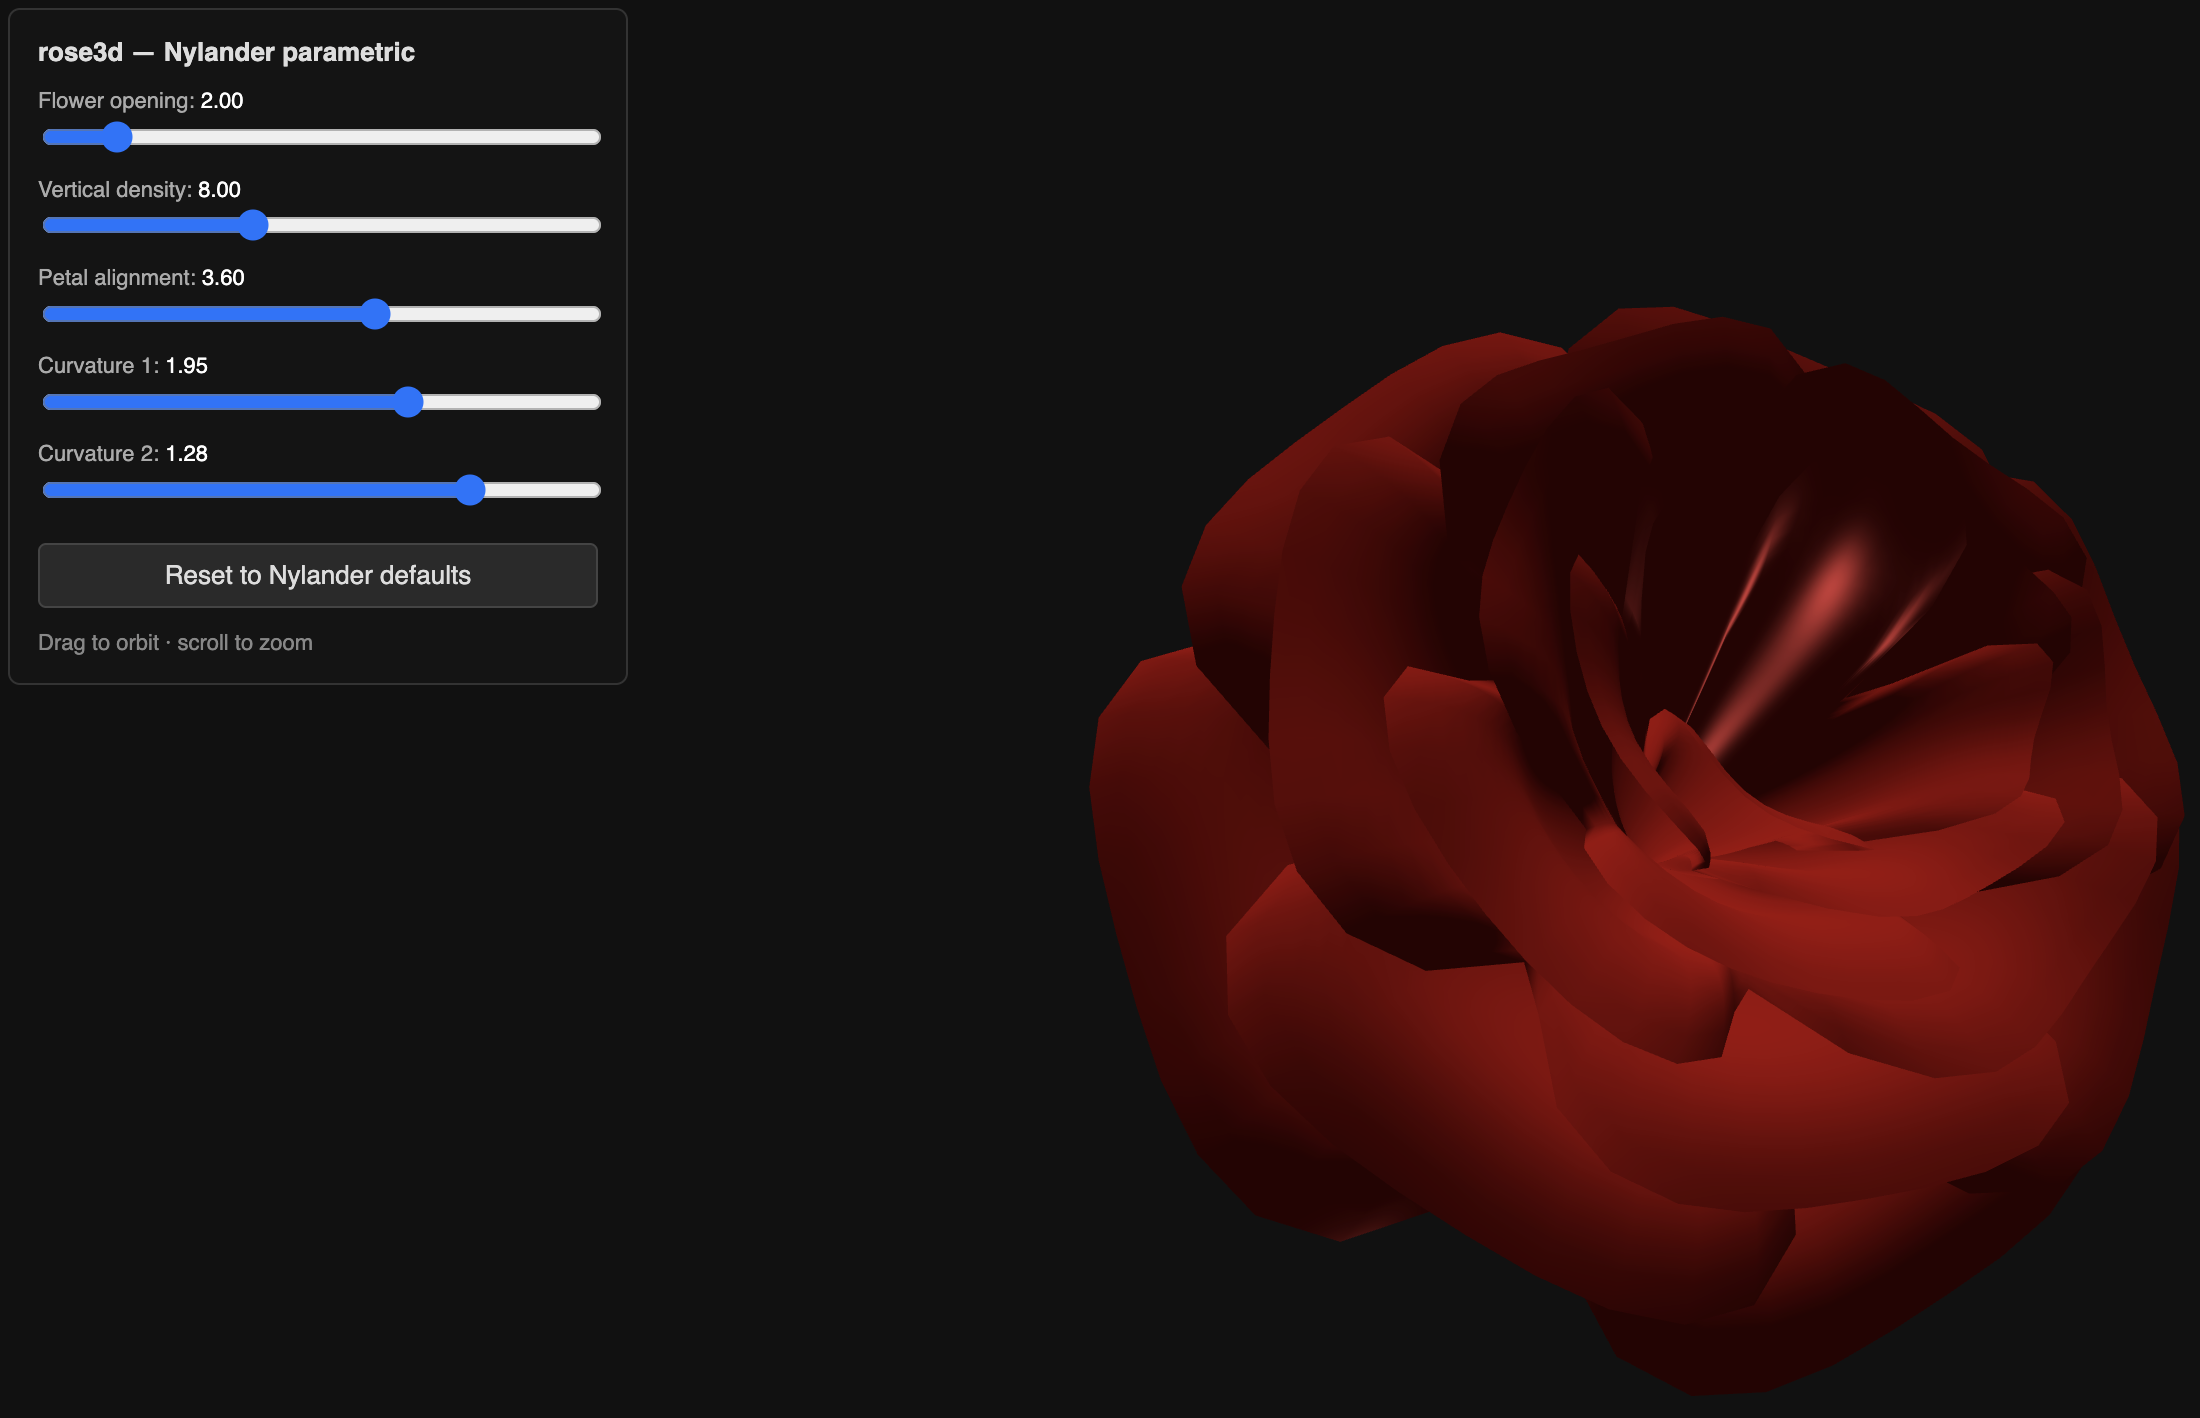
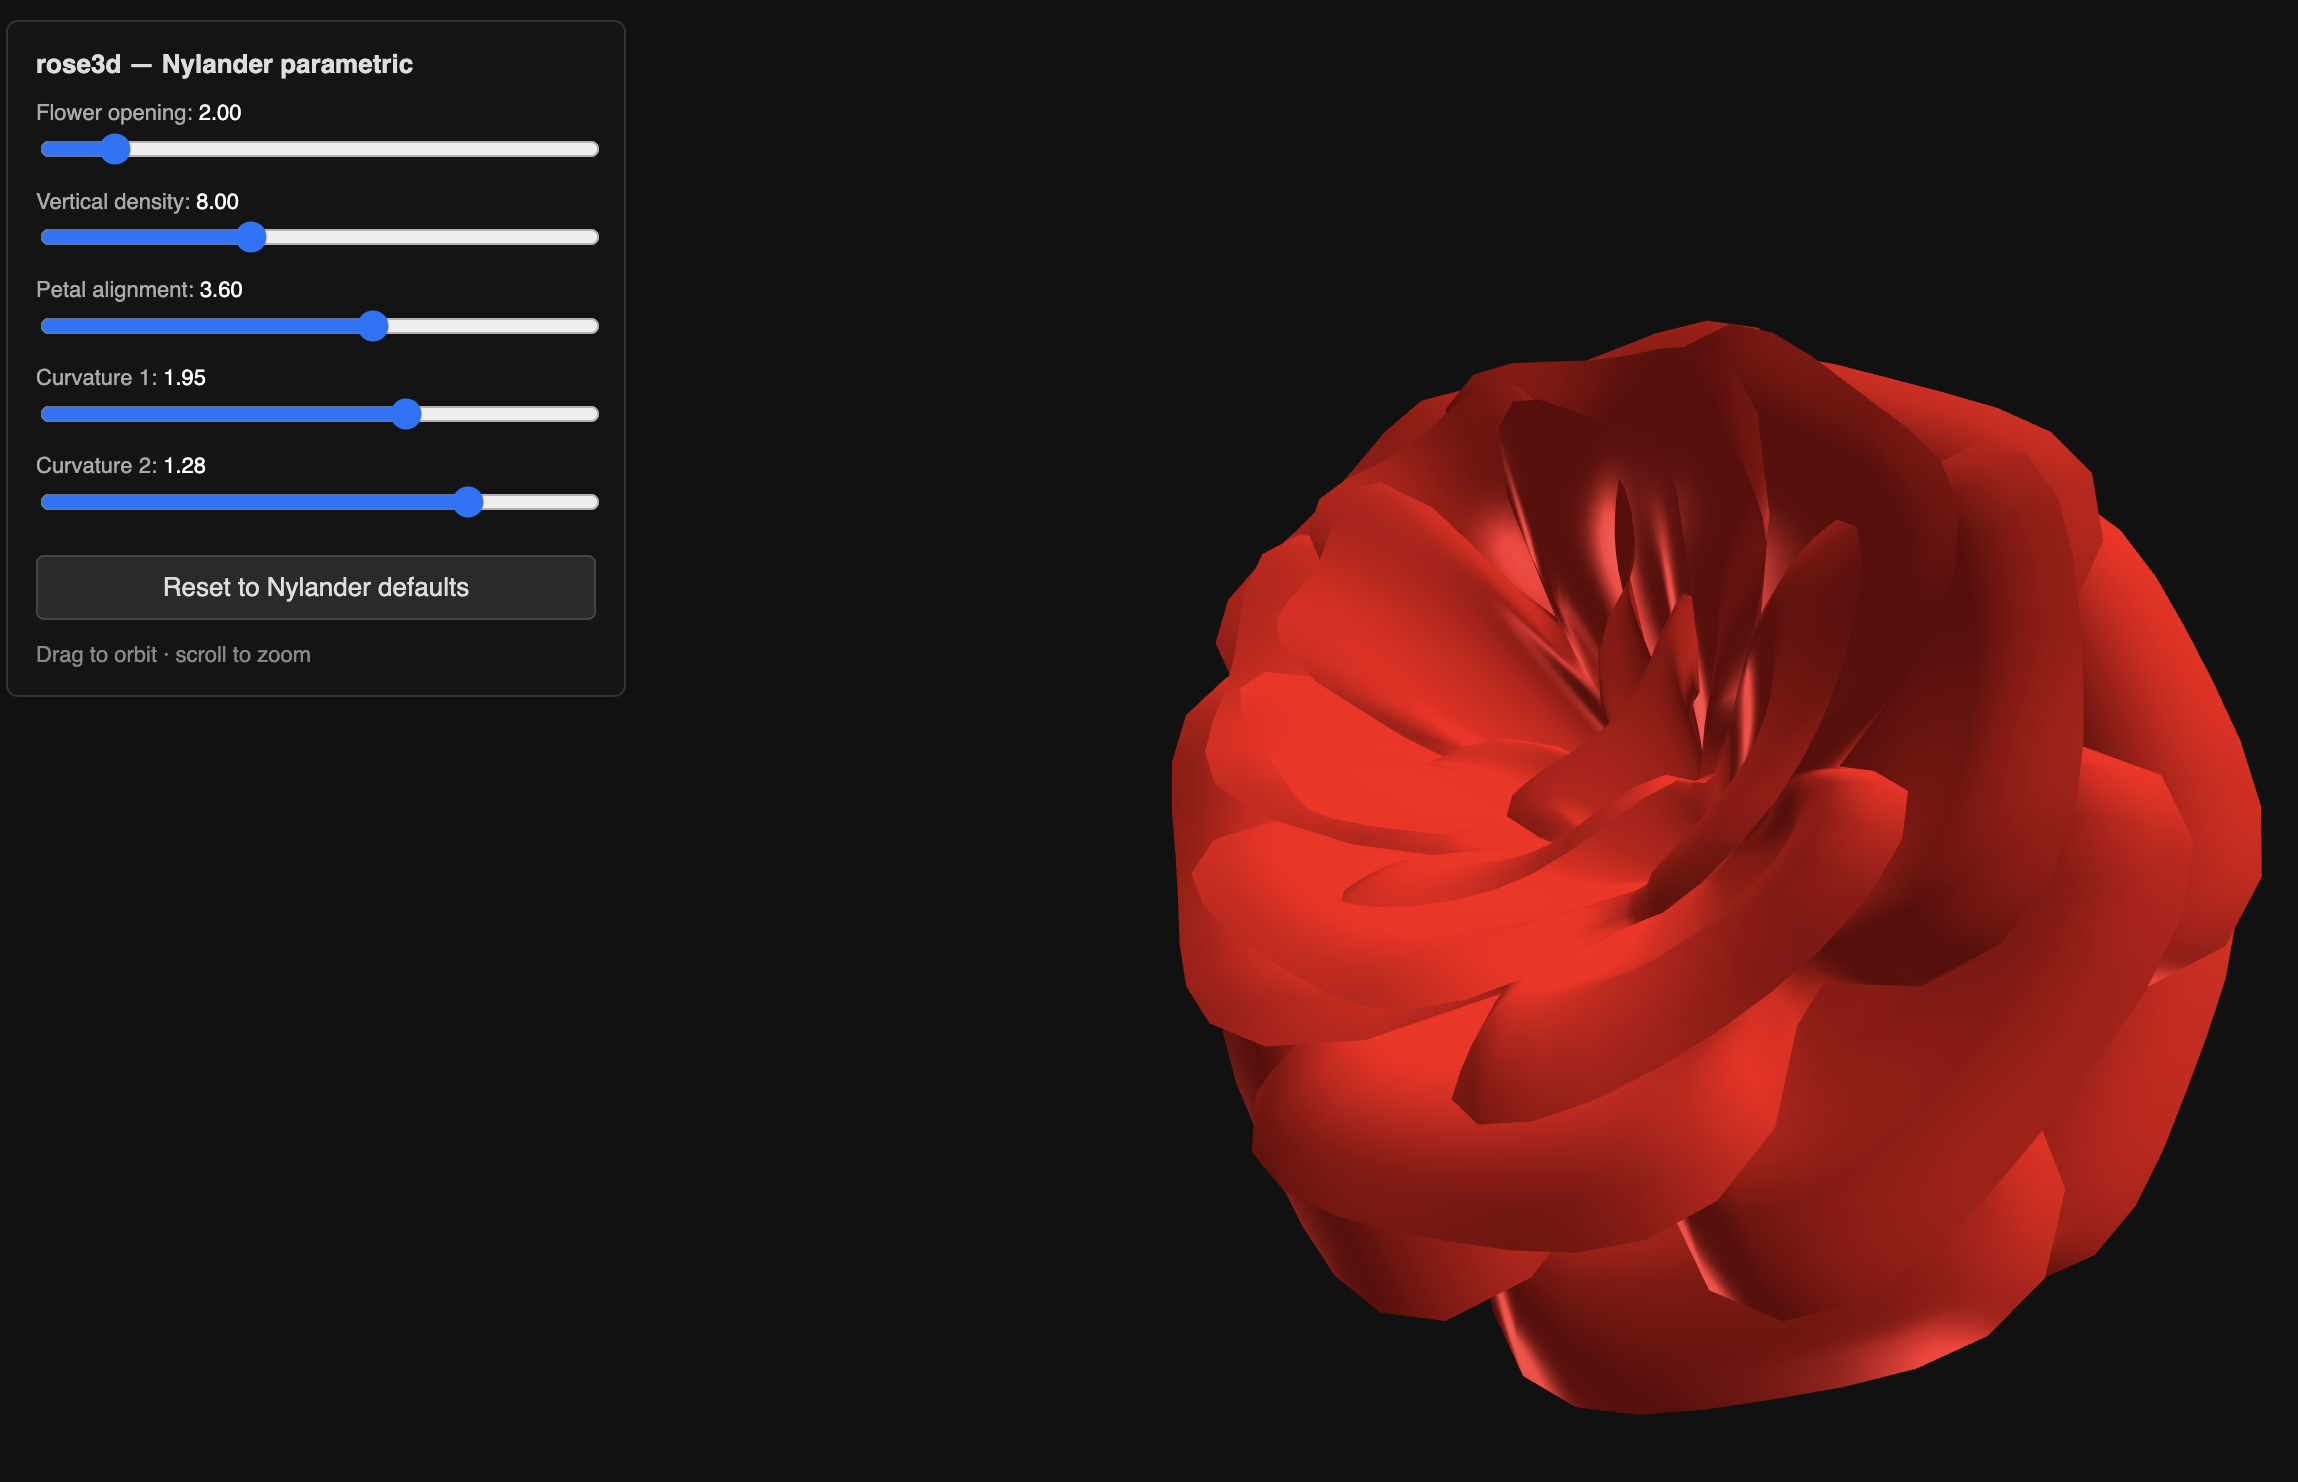
Extend theta range to full Nylander span and embed Lisp source
Cover θ ∈ [−20π/9, 15π] (was [0, 15π]) so the recurved inner-bud
petals from Nylander's original render are present; bump COLS to 420
to keep ~24 samples per π. Embed the verbatim AutoLISP source as a
header comment with link to http://bugman123.com/Math/Rose.lsp so the
reference can't get lost. Brighten lighting (second fill light, warmer
ambient), and stop orbitControl from firing while the user drags
inside the slider panel.

Changed region(s): [[0.4945, 0.2172, 1.0, 0.9619], [0.0, 0.0, 0.2782, 0.4654]]

diff --git a/index.html b/index.html
@@ -53,9 +53,80 @@
 </div>
 
 <script>
-const COLS = 360;
+/*
+ * Port of Paul Nylander's "Rose-Shaped Parametric Surface" (3/11/09).
+ * Source: http://bugman123.com/Math/Rose.lsp
+ *
+ * Original AutoLISP, archived verbatim:
+ *
+ * ;*******************************************************************************************
+ * ;* Rose-Shaped Parametric Surface, by Paul Nylander, bugman123.com, 3/11/09
+ * ;*******************************************************************************************
+ *
+ * ;Basic Functions
+ * (defun mod (a b / c) (setq c (rem a b)) (if (> c 0) c (+ c b))); well-behaved (always return positive)
+ * (defun ² (x) (* x x))
+ *
+ * ;Converts Polygon into AutoCAD's Triangle Elements, only works for convex polygons
+ * ;(TriangulateElem '(1 2 3 4 5 6 7 8 9 10)) -> '((1 2 -3) (-1 3 -4) (-1 4 -5) (-1 5 -6) (-1 6 -7) (-1 7 -8) (-1 8 -9) (-1 9 10))
+ * (defun TriangulateElem (elem / n i i0 i1 i2 elems) (setq n (length elem))
+ *  (if (= n 3) (list elem) (progn
+ *   (setq i0 (car elem) i1 (caddr elem) elems (list (list i0 (cadr elem) (- i1))) i 3)
+ *   (while (< i (1- n)) (setq i2 (nth i elem) elems (append elems (list (list (- i0) i1 (- i2)))) i1 i2 i (1+ i)))
+ *   (append elems (list (list (- i0) i1 (last elem))))
+ *  ));i
+ * );d
+ *
+ * (defun mesh (nodes elems1 / elems2 nnode nelem elem)
+ *  (setq elems2 (apply 'append (mapcar 'TriangulateElem elems1))); introduces AutoCAD's negative index notation
+ *  (setq nnode (length nodes) nelem (length elems2))
+ *  (entmake (list '(0 . "POLYLINE") '(70 . 64) (cons 71 nnode) (cons 72 nelem)))
+ *  (foreach p nodes (entmake (list '(0 . "VERTEX") (cons 10 p) '(70 . 192))))
+ *  (foreach elem elems2 (entmake (list '(0 . "VERTEX") '(10 0.0 0.0 0.0) '(70 . 128)
+ *   (cons 71 (car elem)) (cons 72 (cadr elem)) (cons 73 (caddr elem))
+ *   (cons 74 (- (abs (car elem))))
+ *  )));f
+ *  (entmake '((0 . "SEQEND")))
+ * );d
+ *
+ * (defun ParametricPlot3D (f u1 u2 du v1 v2 dv / u v i j i1 i2 i3 i4 imax jmax nodes elems)
+ *  (setq imax (fix (+ (/ (- u2 u1) du) 0.5)) jmax (fix (+ (/ (- v2 v1) dv) 0.5)))
+ *  (setq j 0); calculate nodes
+ *  (while (<= j jmax) (setq v (+ v1 (* j dv)) i 0)
+ *   (while (<= i imax) (setq u (+ u1 (* i du)) nodes (append nodes (list (f u v))) i (1+ i)))
+ *   (setq j (1+ j))
+ *  );w
+ *  (setq i 1); assemble quad elements
+ *  (while (<= i imax) (setq j 0)
+ *   (while (< j jmax) (setq
+ *    i1 (+ i (* j (1+ imax))) i2 (1+ i1) i3 (+ i1 (1+ imax) 1) i4 (+ i1 (1+ imax))
+ *    elems (append elems (list (list i1 i2 i3 i4)))
+ *    j (1+ j)
+ *   ));w
+ *   (setq i (1+ i))
+ *  );w
+ *  (mesh nodes elems)
+ * );d
+ *
+ * ;Rose-Shaped Parametric Surface
+ * (setq theta1 (/ (* -20 pi) 9) theta2 (* 15 pi) x0 0.7831546645625248)
+ * (defun Rose (x1 theta / Ø y1 x r)
+ *  (setq Ø (* 0.5 pi (exp (- (/ theta 8 pi)))) thetanew theta)
+ *  (setq y1 (* 1.9565284531299512 (² x1) (² (- (* 1.2768869870150188 x1) 1.0)) (sin Ø)))
+ *  (setq x (- 1.0 (* 0.5 (² (- (* 1.25 (² (- 1.0 (/ (mod (* 3.6 theta) (* 2 pi)) pi)))) 0.25)))))
+ *  (setq r (* x (+ (* x1 (sin Ø)) (* y1 (cos Ø)))))
+ *  (list (* r (sin thetanew)) (* r (cos thetanew)) (* x (- (* x1 (cos Ø)) (* y1 (sin Ø)))))
+ * );d
+ * (ParametricPlot3D Rose 1.0e-6 1.0 (/ 1.0 24) theta1 theta2 (/ (- theta2 theta1) 575))
+ *
+ * (command "vpoint" (list -1.0 -1.0 1.0)); (command "zoom" "extents")
+ */
+
+const THETA_MIN = -20 * Math.PI / 9;   // Nylander's θ₁
+const THETA_MAX = 15 * Math.PI;         // Nylander's θ₂
+const COLS = 420;                       // ~24 samples per π over full range
 const ROWS = 28;
-const T_D_RAD = (15 * Math.PI) / COLS;  // theta step in radians (15π total span)
+const T_D_RAD = (THETA_MAX - THETA_MIN) / COLS;
 const R_D = 1 / ROWS;
 
 const ids = ['opening', 'vDensity', 'pAlign', 'curve1', 'curve2'];
@@ -81,6 +152,11 @@ document.getElementById('reset').addEventListener('click', () => {
   });
 });
 
+let uiDrag = false;
+document.getElementById('panel').addEventListener('pointerdown', () => { uiDrag = true; });
+window.addEventListener('pointerup', () => { uiDrag = false; });
+window.addEventListener('pointercancel', () => { uiDrag = false; });
+
 new p5((p) => {
   let geom = null;
 
@@ -93,7 +169,7 @@ new p5((p) => {
       const x1 = r * R_D;
       const x1sq = x1 * x1;
       for (let theta = 0; theta <= COLS; theta++) {
-        const th = theta * T_D_RAD;
+        const th = THETA_MIN + theta * T_D_RAD;
         const phi = (halfPi / (vals.opening / 2)) * Math.exp(-th / (vals.vDensity * Math.PI));
         const sphi = Math.sin(phi), cphi = Math.cos(phi);
 
@@ -148,15 +224,16 @@ new p5((p) => {
 
     p.clear();
     p.background(17);
-    p.orbitControl(4, 4);
+    if (!uiDrag) p.orbitControl(4, 4);
     p.rotateX(-Math.PI / 6);
 
-    p.ambientLight(60, 50, 50);
-    p.directionalLight(255, 230, 220, 0.5, -0.7, -0.5);
-    p.ambientMaterial(165, 8, 10);
-    p.fill(165, 8, 10);
-    p.specularMaterial(80, 30, 30);
-    p.shininess(20);
+    p.ambientLight(120, 95, 95);
+    p.directionalLight(255, 235, 225, 0.5, -0.7, -0.5);
+    p.directionalLight(180, 160, 160, -0.6, -0.3, -0.4);
+    p.ambientMaterial(200, 12, 14);
+    p.fill(200, 12, 14);
+    p.specularMaterial(110, 40, 40);
+    p.shininess(24);
 
     p.model(geom);
   };
